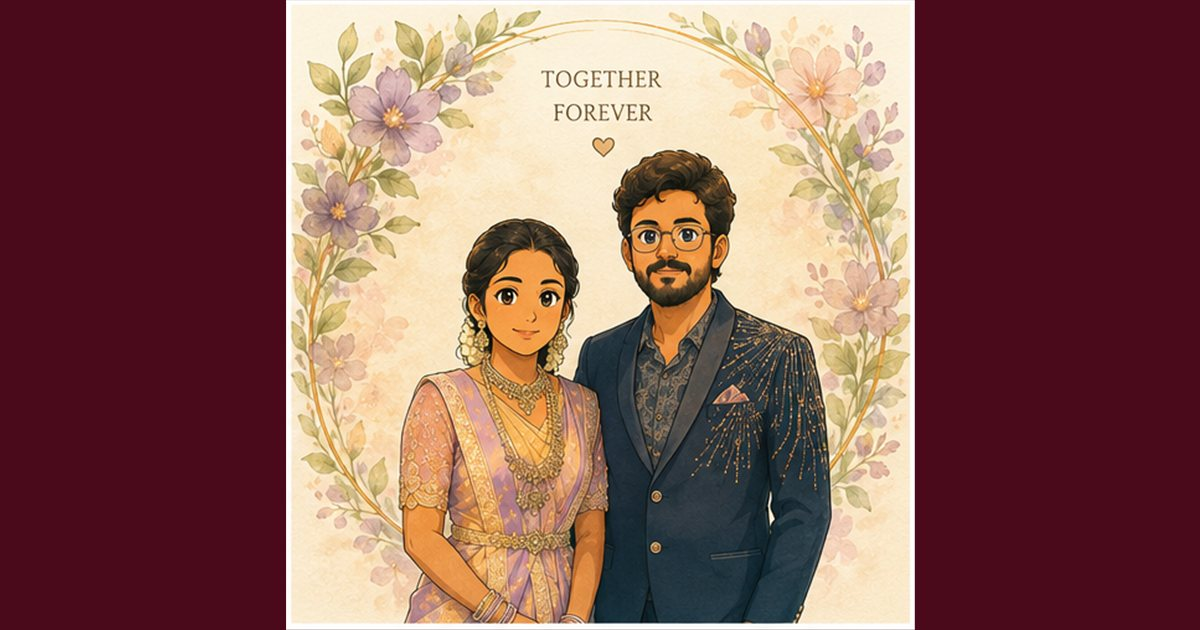
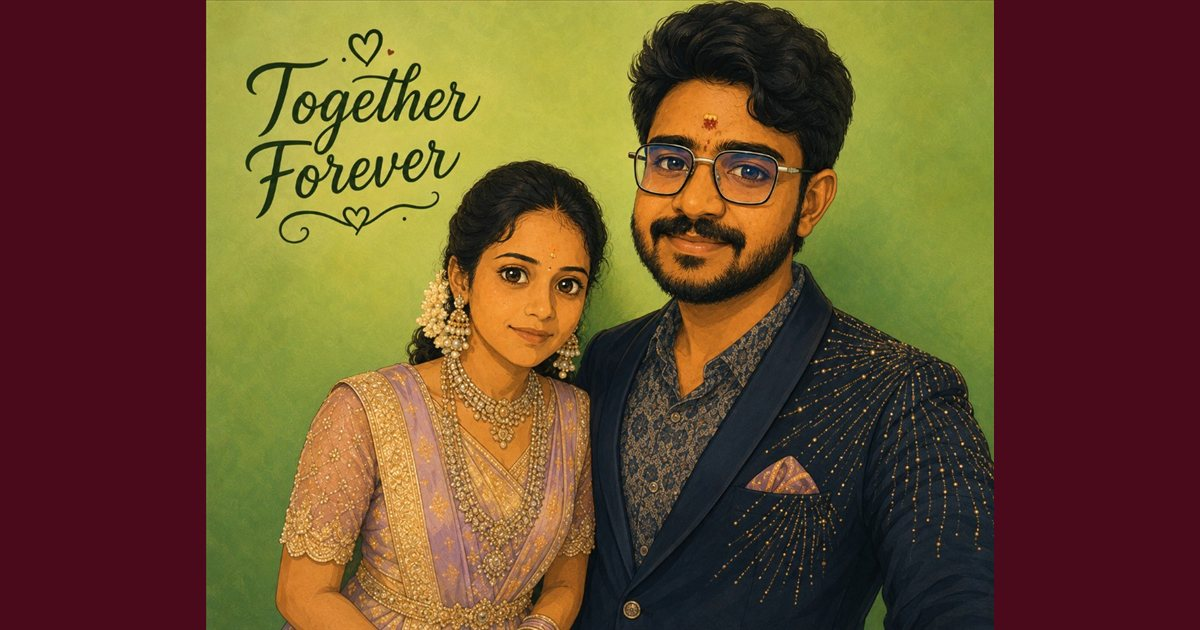
Altered preview images

diff --git a/index.html b/index.html
@@ -6,25 +6,25 @@
   <meta name="theme-color" content="#4a0a1c" />
   <meta name="description" content="You're invited! Muhurtham: 13 Sep 2026, Reception: 12 Sep 2026" />
 
-  <meta property="og:title" content="Subash &amp; Jamuna - Wedding Invitation" />
+  <meta property="og:title" content="Vasanth &amp; Jeevitha - Wedding Invitation" />
   <meta property="og:description" content="You're invited! Muhurtham: 13 Sep 2026, Reception: 12 Sep 2026" />
   <meta property="og:image" content="https://gana1219.github.io/VJwedding/images/og-preview.jpg" />
   <meta property="og:image:secure_url" content="https://gana1219.github.io/VJwedding/images/og-preview.jpg" />
   <meta property="og:image:type" content="image/jpeg" />
   <meta property="og:image:width" content="1200" />
   <meta property="og:image:height" content="630" />
-  <meta property="og:image:alt" content="Subash and Jamuna - Wedding Invitation" />
+  <meta property="og:image:alt" content="Vasanth and Jeevitha - Wedding Invitation" />
   <meta property="og:url" content="https://gana1219.github.io/VJwedding/" />
   <meta property="og:type" content="website" />
-  <meta property="og:site_name" content="Subash &amp; Jamuna Wedding" />
+  <meta property="og:site_name" content="Vasanth &amp; Jeevitha Wedding" />
 
   <!-- WhatsApp / Twitter preview -->
   <meta name="twitter:card" content="summary_large_image" />
-  <meta name="twitter:title" content="Subash &amp; Jamuna - Wedding Invitation" />
+  <meta name="twitter:title" content="Vasanth &amp; Jeevitha - Wedding Invitation" />
   <meta name="twitter:description" content="You're invited! Muhurtham: 13 Sep 2026" />
   <meta name="twitter:image" content="https://gana1219.github.io/VJwedding/images/og-preview.jpg" />
 
-  <title>Subash & Jamuna — Wedding Invitation</title>
+  <title>Vasanth & Jeevitha — Wedding Invitation</title>
   <link rel="preconnect" href="https://fonts.googleapis.com" />
   <link rel="preconnect" href="https://fonts.gstatic.com" crossorigin />
   <link href="https://fonts.googleapis.com/css2?family=Cormorant+Garamond:ital,wght@0,400;0,600;1,400&family=Great+Vibes&family=Playfair+Display:ital,wght@0,500;0,700;1,400&display=swap" rel="stylesheet" />
@@ -345,17 +345,55 @@
     .map-btn:active { background: var(--maroon); color: var(--gold-light); }
 
     /* Couple illustrations */
-    .hero-art {
-      width: min(100%, 240px);
-      height: auto;
-      max-height: 165px;
-      object-fit: contain;
-      object-position: center top;
+    .hero-art-frame {
+      align-self: stretch;
+      width: 100%;
+      margin: 0 0 0.45rem;
+      padding: 0;
       border-radius: 8px;
       border: 2px solid var(--gold);
-      margin-bottom: 0.55rem;
-      display: block;
+      overflow: hidden;
+      line-height: 0;
       box-shadow: 0 6px 18px rgba(74, 10, 28, 0.15);
+      flex-shrink: 1;
+      min-height: 0;
+    }
+
+    .hero-art {
+      width: 100%;
+      height: auto;
+      display: block;
+      vertical-align: middle;
+    }
+
+    .stack-card[data-id="0"] {
+      justify-content: flex-start;
+      gap: 0.25rem;
+      padding-top: 0.9rem;
+    }
+
+    .stack-card[data-id="0"] .card-om {
+      font-size: clamp(1.15rem, 4.5vw, 1.65rem);
+      margin-bottom: 0;
+    }
+
+    .stack-card[data-id="0"] .card-title {
+      font-size: clamp(1.55rem, 6vw, 2.25rem);
+      line-height: 1.1;
+    }
+
+    .stack-card[data-id="0"] .gold-line {
+      margin: 0.4rem auto;
+    }
+
+    .stack-card[data-id="0"] .card-sub {
+      margin-top: 0;
+    }
+
+    .stack-card[data-id="0"] .card-body {
+      font-size: clamp(0.76rem, 2.8vw, 0.92rem);
+      line-height: 1.45;
+      margin-top: 0.25rem !important;
     }
 
     .featured-art {
@@ -837,7 +875,7 @@
       <div class="sticker-art">
         <img
           src="images/couple-together-forever.png"
-          alt="Anime couple getting married"
+          alt="Vasanth Kumar and Jeevitha together forever"
         />
       </div>
       <span class="sticker-caption">Together Forever</span>
@@ -884,7 +922,9 @@
 
       <article class="stack-card" data-id="0" data-label="Welcome">
         <span class="card-label">01</span>
-        <img class="hero-art" src="images/couple-together-forever.png" alt="Subash and Jamuna — Together Forever" />
+        <figure class="hero-art-frame">
+          <img class="hero-art" src="images/couple-together-forever.png" alt="Vasanth and Jeevitha — Together Forever" />
+        </figure>
         <div class="card-om">ॐ</div>
         <h2 class="card-title">You're Invited</h2>
         <div class="gold-line"></div>
@@ -896,12 +936,11 @@
 
       <article class="stack-card" data-id="1" data-label="Couple">
         <span class="card-label">02</span>
-        <img class="featured-art" src="images/couple-seated.png" alt="Subash and Jamuna" />
+        <img class="featured-art" src="images/couple-seated.png" alt="Vasanth and Jeevitha" />
         <p class="name-script">Vasantha kumar S</p>
-        <p class="name-alias">(a) Subash S</p>
+        <div class="gold-line"></div>
         <p class="duo-amp" style="margin:0.15rem 0">&amp;</p>
         <p class="name-script">Jeevitha S</p>
-        <p class="name-alias">(a) Jamuna S</p>
         <div class="gold-line"></div>
         <p class="card-body">Cordially invite you and your family to grace the occasion of their marriage</p>
       </article>
@@ -912,8 +951,8 @@
         <div class="couple-gallery">
           <figure><img src="images/couple-together-forever.png" alt="Together Forever" /></figure>
           <figure><img src="images/couple-evening.png" alt="Celebrating together" /></figure>
-          <figure><img src="images/couple-seated.png" alt="Subash and Jamuna seated" /></figure>
-          <figure><img src="images/couple-church.png" alt="Subash and Jamuna outdoors" /></figure>
+          <figure><img src="images/couple-seated.png" alt="Vasanth and Jeevitha seated" /></figure>
+          <figure><img src="images/couple-church.png" alt="Vasanth and Jeevitha outdoors" /></figure>
         </div>
       </article>
 